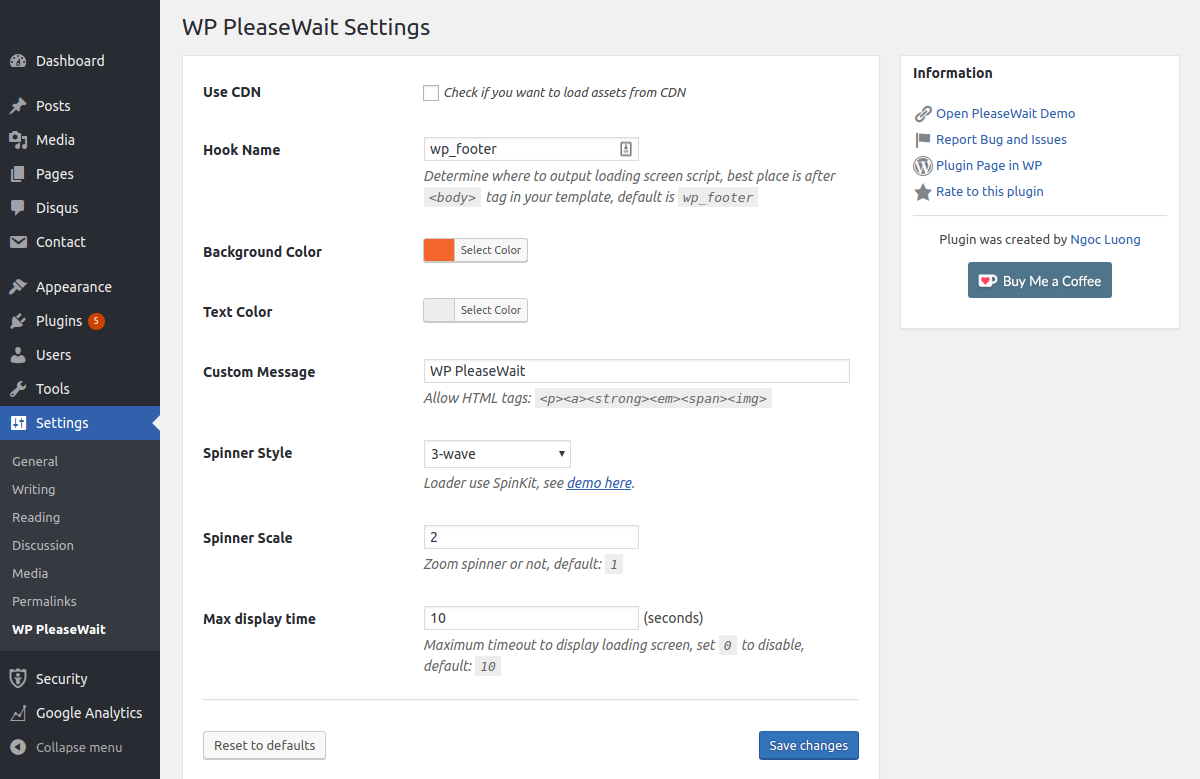
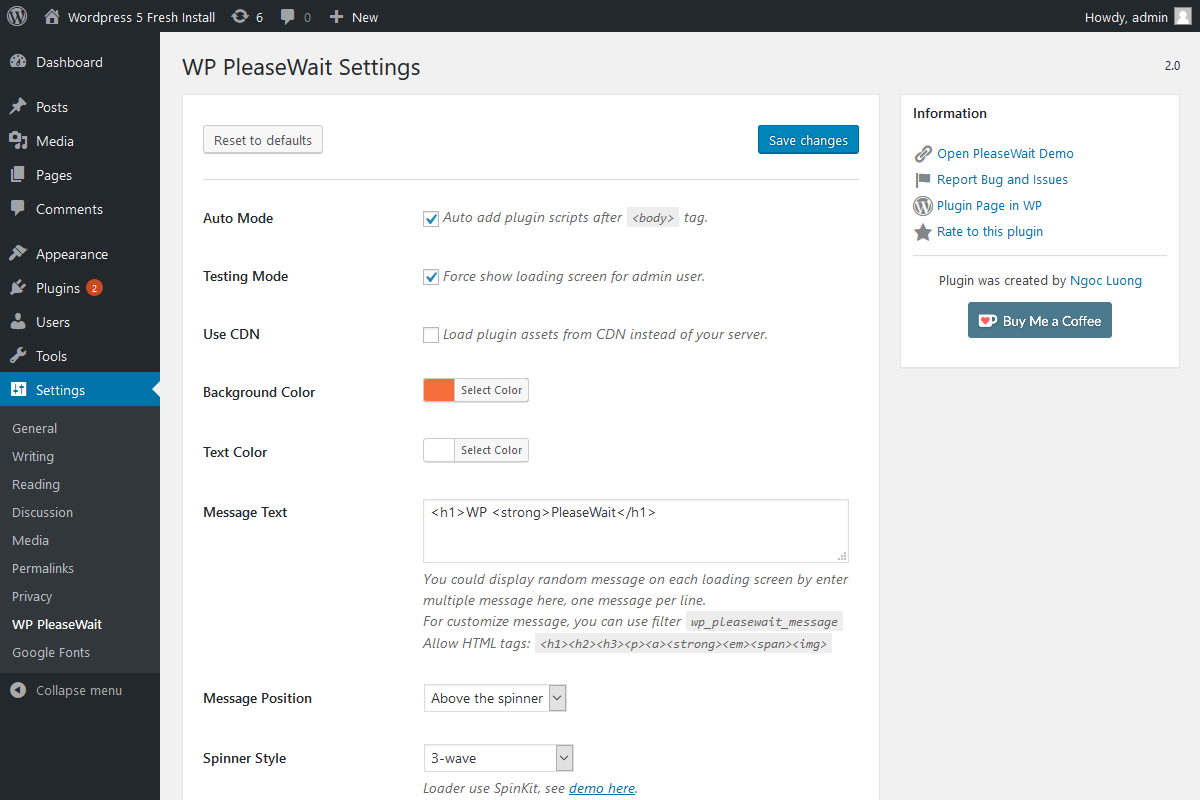
Update v2.0

diff --git a/pleasewait-settings.php b/pleasewait-settings.php
@@ -1,7 +1,7 @@
 <?php
 class WpPleaseWait_SettingsPage
 {
-    const CURRENT_VERSION = '1.0.4';
+    const CURRENT_VERSION = '2.0';
     const GITHUB_URL = 'https://github.com/lbngoc/wp-please-wait'; // null|string
     const PLUGIN_URL = 'https://wordpress.org/support/plugin/wp-pleasewait'; // null|string
     const DEMO_URL   = 'http://pathgather.github.io/please-wait';
@@ -13,6 +13,8 @@ class WpPleaseWait_SettingsPage
     private static $instance;
 
     private $default_options = array(
+        'auto_mode'           => true,
+        'test_mode'           => false,
         'use_cdn'             => false,
         'bg_color'            => '#f46d3b',
         'text_color'          => '#eeeeee',
@@ -95,7 +97,9 @@ class WpPleaseWait_SettingsPage
           <div class="sk-cube3 sk-cube"></div>
         </div>',
         ),
-        'custom_message_poss' => array(
+        'custom_message'      => '<em style="font-size: x-large">Welcome</em>',
+        'custom_message_pos'  => 'above',
+        'custom_message_pos_list' => array(
             'above' => 'Above the spinner',
             'below' => 'Below the spinner',
         ),
@@ -103,7 +107,7 @@ class WpPleaseWait_SettingsPage
         'spinner_scale'       => 1,
         'timeout'             => 10, // s
         'delay'               => 100, //ms
-        'allow_tags'          => '<p><a><strong><em><span><img>',
+        'allow_tags'          => '<h1><h2><h3><p><a><strong><em><span><img>',
     );
 
     /**
@@ -114,8 +118,7 @@ class WpPleaseWait_SettingsPage
         $this->options = get_option('wppleasewait_settings');
         $this->default_options['hook_name'] = $this->get_hook_name();
         if (is_admin()) {
-            wp_enqueue_style('wp-color-picker');
-            wp_enqueue_script('wp-color-picker');
+            add_action('admin_enqueue_scripts', array($this, 'load_admin_assets'), 9 );
             add_action('admin_menu', array($this, 'add_plugin_page'));
             add_action('admin_init', array($this, 'page_init'));
         }
@@ -137,6 +140,14 @@ class WpPleaseWait_SettingsPage
      */
     public function clear_settings() {
         delete_option('wppleasewait_settings');
+    }
+
+    /**
+     * Assets file for WP Pleasewait Settings
+     */
+    public function load_admin_assets() {
+        wp_enqueue_style('wp-color-picker');
+        wp_enqueue_script('wp-color-picker');
     }
 
     /**
@@ -175,15 +186,22 @@ class WpPleaseWait_SettingsPage
                 <div id="post-body-content">
                   <div class="stuffbox">
                     <form method="post" action="options.php">
-                    <?php
-                        // This prints out all hidden setting fields
-                        settings_fields('wppleasewait');
-                        do_settings_sections('wppleasewait-setting-admin');
-                    ?>
+                      <p class="submit">
+                        <?php
+                            submit_button("Reset to defaults", 'secondary', null, false, ['name' => 'reset']);
+                            submit_button("Save changes", 'primary pull-right', 'submit', false);
+                        ?>
+                      </p>
+                      <hr/>
+                        <?php
+                            // This prints out all hidden setting fields
+                            settings_fields('wppleasewait');
+                            do_settings_sections('wppleasewait-setting-admin');
+                        ?>
                       <hr/>
                       <p class="submit">
                         <?php
-                            submit_button("Reset to defaults", 'secondary', 'reset', false);
+                            submit_button("Reset to defaults", 'secondary', null, false, ['name' => 'reset']);
                             submit_button("Save changes", 'primary pull-right', 'submit', false);
                         ?>
                       </p>
@@ -227,7 +245,19 @@ class WpPleaseWait_SettingsPage
         <style type="text/css">.stuffbox { padding: 0 20px }.full-width{width:100%}.pull-right{float: right;}</style>
         <script type="text/javascript">(function($){
           $(document).ready(function() {
-            $('.wp-color-picker').wpColorPicker()
+            $.fn.wpColorPicker && $('.wp-color-picker').wpColorPicker();
+            $('.button[name="reset"]').click(function(e) {
+                if (!window.confirm('Are you sure you want to reset all settings?')) {
+                    e.preventDefault();
+                }
+            });
+            $('input#auto_mode').change(function(e) {
+                if ($(e.target).is(':checked')) {
+                    $('tr.hook_name').fadeOut(500);
+                } else {
+                    $('tr.hook_name').fadeIn(500);
+                }
+            });
           });
         })(jQuery);</script>
         <?php
@@ -252,9 +282,9 @@ class WpPleaseWait_SettingsPage
         );
 
         add_settings_field(
-            'use_cdn',
-            'Use CDN',
-            array($this, 'use_cdn_callback'),
+            'auto_mode',
+            'Auto Mode',
+            array($this, 'auto_mode_callback'),
             'wppleasewait-setting-admin',
             'setting_section_id'
         );
@@ -263,6 +293,23 @@ class WpPleaseWait_SettingsPage
             'hook_name',
             'Hook Name',
             array($this, 'hook_name_callback'),
+            'wppleasewait-setting-admin',
+            'setting_section_id',
+            array('class' => 'hook_name ' . ($this->options['auto_mode'] ? 'hidden' : ''))
+        );
+
+        add_settings_field(
+            'test_mode',
+            'Testing Mode',
+            array($this, 'test_mode_callback'),
+            'wppleasewait-setting-admin',
+            'setting_section_id'
+        );
+
+        add_settings_field(
+            'use_cdn',
+            'Use CDN',
+            array($this, 'use_cdn_callback'),
             'wppleasewait-setting-admin',
             'setting_section_id'
         );
@@ -352,8 +399,22 @@ class WpPleaseWait_SettingsPage
         }
         $new_input = array();
 
+        if (isset($input['auto_mode'])) { // checked
+            $new_input['auto_mode'] = ($input['auto_mode'] === 'yes');
+        } else {
+            $new_input['auto_mode'] = false;
+        }
+
+        if (isset($input['test_mode'])) { // checked
+            $new_input['test_mode'] = ($input['test_mode'] === 'yes');
+        } else {
+            $new_input['test_mode'] = false;
+        }
+
         if (isset($input['use_cdn'])) {
-            $new_input['use_cdn'] = $input['use_cdn'] === 'yes';
+            $new_input['use_cdn'] = ($input['use_cdn'] === 'yes');
+        } else {
+            $new_input['use_cdn'] = false;
         }
 
         if (isset($input['spinner_style'])) {
@@ -408,15 +469,42 @@ class WpPleaseWait_SettingsPage
     }
 
     /**
+     * Get the auto_mode option and print its input control
+     */
+    public function auto_mode_callback()
+    {
+        $current = isset($this->options['auto_mode']) ? $this->options['auto_mode'] : $this->default_options['auto_mode'];
+        printf(
+            '<input type="checkbox" id="auto_mode" name="wppleasewait_settings[auto_mode]" value="yes" %s />',
+            checked($current, true, false)
+        );
+        print '<label for="auto_mode"><p class="description" style="display:inline;vertical-align:bottom">Auto add plugin scripts after <code>&lt;body&gt;</code> tag.</p></label>';
+    }
+
+    /**
+     * Get the test_mode option and print its input control
+     */
+    public function test_mode_callback()
+    {
+        $current = isset($this->options['test_mode']) ? $this->options['test_mode'] : $this->default_options['test_mode'];
+        printf(
+            '<input type="checkbox" id="test_mode" name="wppleasewait_settings[test_mode]" value="yes" %s />',
+            checked($current, true, false)
+        );
+        print '<label for="test_mode"><p class="description" style="display:inline;vertical-align:bottom">Force show loading screen for admin user.</p></label>';
+    }
+
+    /**
      * Get the use_cdn option and print its input control
      */
     public function use_cdn_callback()
     {
+        $current = isset($this->options['use_cdn']) ? $this->options['use_cdn'] : $this->default_options['use_cdn'];
         printf(
             '<input type="checkbox" id="use_cdn" name="wppleasewait_settings[use_cdn]" value="yes" %s />',
-            checked($this->options['use_cdn'], true, false)
+            checked($current, true, false)
         );
-        print '<span class="description">Check if you want to load assets from CDN</span>';
+        print '<label for="use_cdn"><p class="description" style="display:inline;vertical-align:bottom">Load plugin assets from CDN instead of your server.</p></label>';
     }
 
     /**
@@ -474,7 +562,7 @@ class WpPleaseWait_SettingsPage
     {
         $value = isset($this->options['custom_message_pos']) ? $this->options['custom_message_pos'] : $this->default_options['custom_message_pos'];
         print('<select type="text" id="custom_message_pos" name="wppleasewait_settings[custom_message_pos]">');
-        foreach ($this->default_options['custom_message_poss'] as $key => $desc) {
+        foreach ($this->default_options['custom_message_pos_list'] as $key => $desc) {
             printf('<option value="%s" %s>%s</option>',
                 $key,
                 selected($key, $value, false),

diff --git a/pleasewait.php b/pleasewait.php
@@ -4,7 +4,7 @@
 Plugin Name:  WP PleaseWait
 Plugin URI:   https://ngoclb.com/project/wp-please-wait
 Description:  Add PleaseWait loading screen to currrent theme
-Version:      1.0.4
+Version:      2.0
 Author:       Ngoc LB
 Author URI:   https://ngoclb.com/
 License:      MIT License
@@ -25,6 +25,7 @@ class WpPleaseWait {
 
   public function __construct()	{
     $this->options = WpPleaseWait_SettingsPage::getInstance()->get_options();
+    // var_dump($this->options); die;
     $this->load_actions();
   }
 
@@ -43,11 +44,16 @@ class WpPleaseWait {
   }
 
   function load_actions() {
-    $hook_name = $this->options['hook_name'];
     // Hook
     add_action( 'wp_enqueue_scripts', array( $this, 'add_styles_scripts' ) );
-    add_action( 'wp_head', array( $this, 'add_inline_styles' ) );
-    add_action( $hook_name, array( $this, 'add_inline_scripts' ) );
+    if ($this->options['auto_mode']) {
+      add_action( 'wp_head', array( $this, 'add_inline_styles' ), 999 );
+      add_action( 'wp_footer', array($this, 'add_inline_scripts'), 999 );
+    } else {
+      $hook_name = $this->options['hook_name'];
+      add_action( $hook_name, array( $this, 'add_inline_styles' ) );
+      add_action( $hook_name, array( $this, 'add_inline_scripts' ) );
+    }
   }
 
   function add_styles_scripts() {
@@ -72,10 +78,10 @@ class WpPleaseWait {
     return $one_line;
   }
 
-  function print_plugin_info() {
+  function get_plugin_info() {
     $ver = WpPleaseWait_SettingsPage::CURRENT_VERSION;
     $url = WpPleaseWait_SettingsPage::GITHUB_URL;
-    echo "<!-- Generated by WP PleaseWait v${ver} - ${url} -->\n";
+    return "<!-- Generated by WP PleaseWait v${ver} - ${url} -->\n";
   }
 
   function get_loading_template() {
@@ -98,6 +104,7 @@ class WpPleaseWait {
   function add_inline_styles() {
     $scale_value = $this->options['spinner_scale'];
     $text_color = $this->options['text_color'];
+    // $bg_color = $this->options['bg_color'];
     $css = <<<CSS
     html.pg-loading {
       overflow: hidden;
@@ -112,37 +119,58 @@ class WpPleaseWait {
       -webkit-transform: scale({$scale_value});
     }
     .pg-loading-html .sk-rotating-plane,
-    .pg-loading-html .sk-rect,
-    .pg-loading-html .sk-cube,
-    .pg-loading-html .sk-circle,
-    .pg-loading-html .sk-child { background: {$text_color}}
+    .pg-loading-html .sk-double-bounce .sk-child,
+    .pg-loading-html .sk-wave .sk-rect,
+    .pg-loading-html .sk-wandering-cubes .sk-cube,
+    .pg-loading-html .sk-spinner-pulse,
+    .pg-loading-html .sk-chasing-dots .sk-child,
+    .pg-loading-html .sk-three-bounce .sk-child,
+    .pg-loading-html .sk-circle .sk-child:before,
+    .pg-loading-html .sk-fading-circle .sk-circle:before,
+    .pg-loading-html .sk-folding-cube .sk-cube:before { background: {$text_color}; }
     .loading-message { color: {$text_color} }
 CSS;
-    $this->print_plugin_info();
+    // echo $this->get_plugin_info();
     echo sprintf("<style type='text/css'>%s</style>", $this->combine_to_oneline($css));
+    // Start get document source code
+    if ($this->options['auto_mode']) {
+      ob_start();
+    }
   }
 
   function add_inline_scripts() {
     $template = addslashes_gpc($this->combine_to_oneline($this->get_loading_template()));
     $spinner_style = addslashes_gpc($this->combine_to_oneline($this->options['spinner_styles'][$this->options['spinner_style']]));
+    $delayMs = $this->options['delay'];
+    $timeoutMs = $this->options['timeout'];
+    $isTestMode = $this->options['test_mode'] && current_user_can('administrator') ? 'true' : 'false';
     $js = <<<JS
-var rootelem = document.querySelector('html'),
-  loading_screen = pleaseWait({
-  logo: false,
-  template: "{$template}",
-  backgroundColor: '{$this->options['bg_color']}',
-  loadingHtml: "{$spinner_style}",
-  onLoadedCallback: function() { setTimeout(function(){rootelem.className = rootelem.className.replace('pg-loading', 'pg-loaded').trim();} , 200); }
-});
-rootelem.className += ' pg-loading';
-function hide_loading_screen() {loading_screen.finish();}
-document.addEventListener("DOMContentLoaded", function() { setTimeout(hide_loading_screen, {$this->options['delay']}) });
+  var rootelem = document.querySelector('html'),
+    isTestMode = ${isTestMode};
+  if (window.pleaseWait) {
+    loadingScreen = pleaseWait({
+      logo: false,
+      template: "{$template}",
+      backgroundColor: "{$this->options['bg_color']}",
+      loadingHtml: "{$spinner_style}",
+      onLoadedCallback: function() { setTimeout(function(){rootelem.className = rootelem.className.replace('pg-loading', 'pg-loaded').trim();} , 200); }
+    });
+    rootelem.className += ' pg-loading';
+    function hideLoadingScreen() { !isTestMode && loadingScreen.finish(); }
+    document.addEventListener("DOMContentLoaded", function() { setTimeout(hideLoadingScreen, {$delayMs}) });
+    !!(${timeoutMs}) && setTimeout(hideLoadingScreen, {$timeoutMs}*1000);
+  }
 JS;
-    if ($this->options['timeout']) {
-      $js .= "setTimeout(hide_loading_screen, {$this->options['timeout']}*1000);";
+    $plugin_info = $this->get_plugin_info();
+    $js_code = sprintf("<script type='text/javascript'>%s</script>", $this->combine_to_oneline($js));
+    if ($this->options['auto_mode']) {
+      $content = ob_get_clean();
+      $content = preg_replace('/<body([^>]*)>/i', '<body$1>' . "\n{$plugin_info}{$js_code}", $content);
+      echo $content;
+    } else {
+      echo $plugin_info;
+      echo $js_code;
     }
-    $this->print_plugin_info();
-    echo sprintf("<script type='text/javascript'>%s</script>", $this->combine_to_oneline($js));
   }
 }
 
